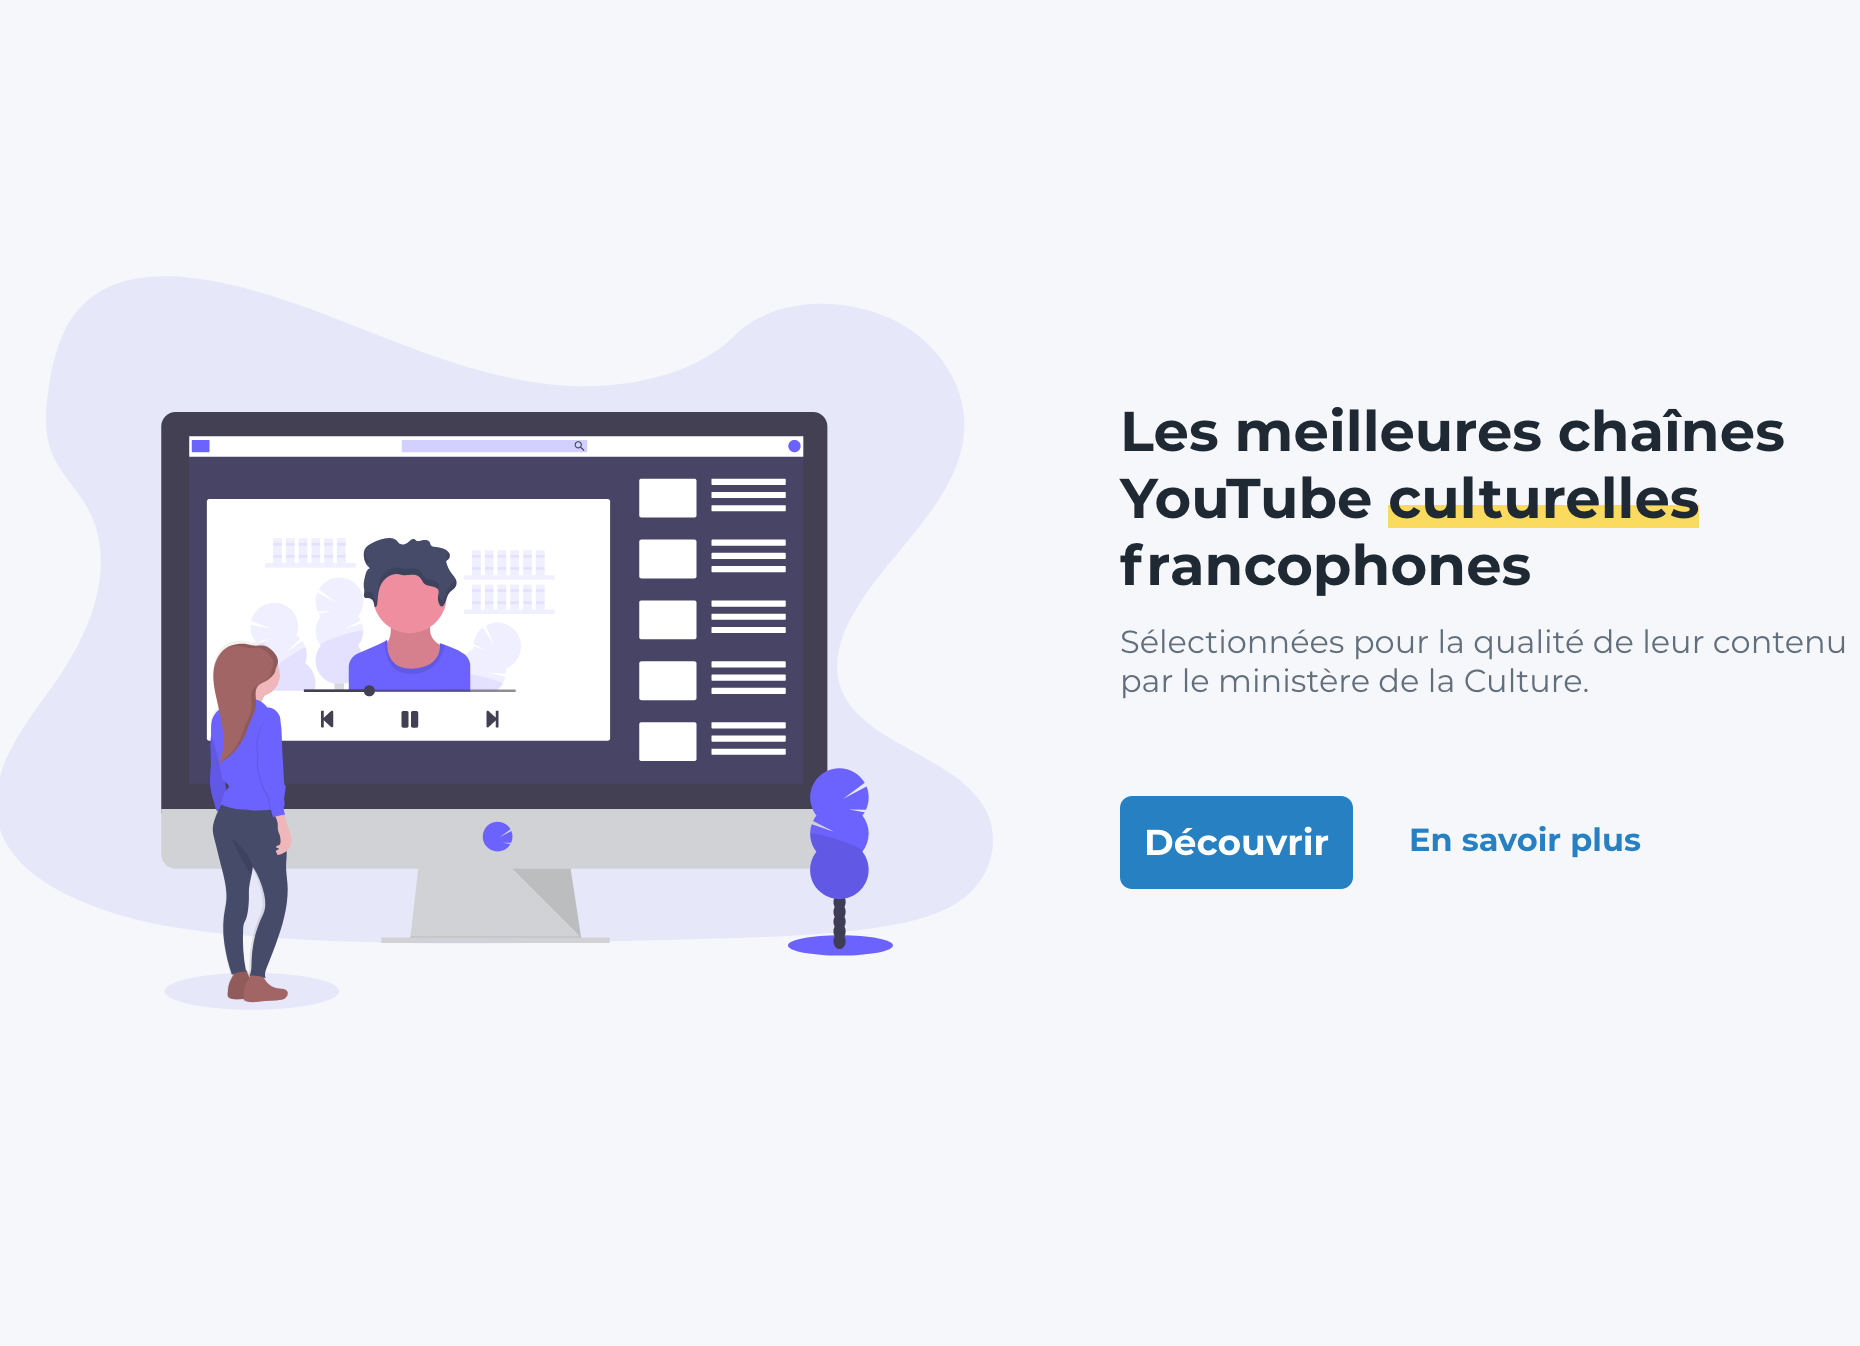
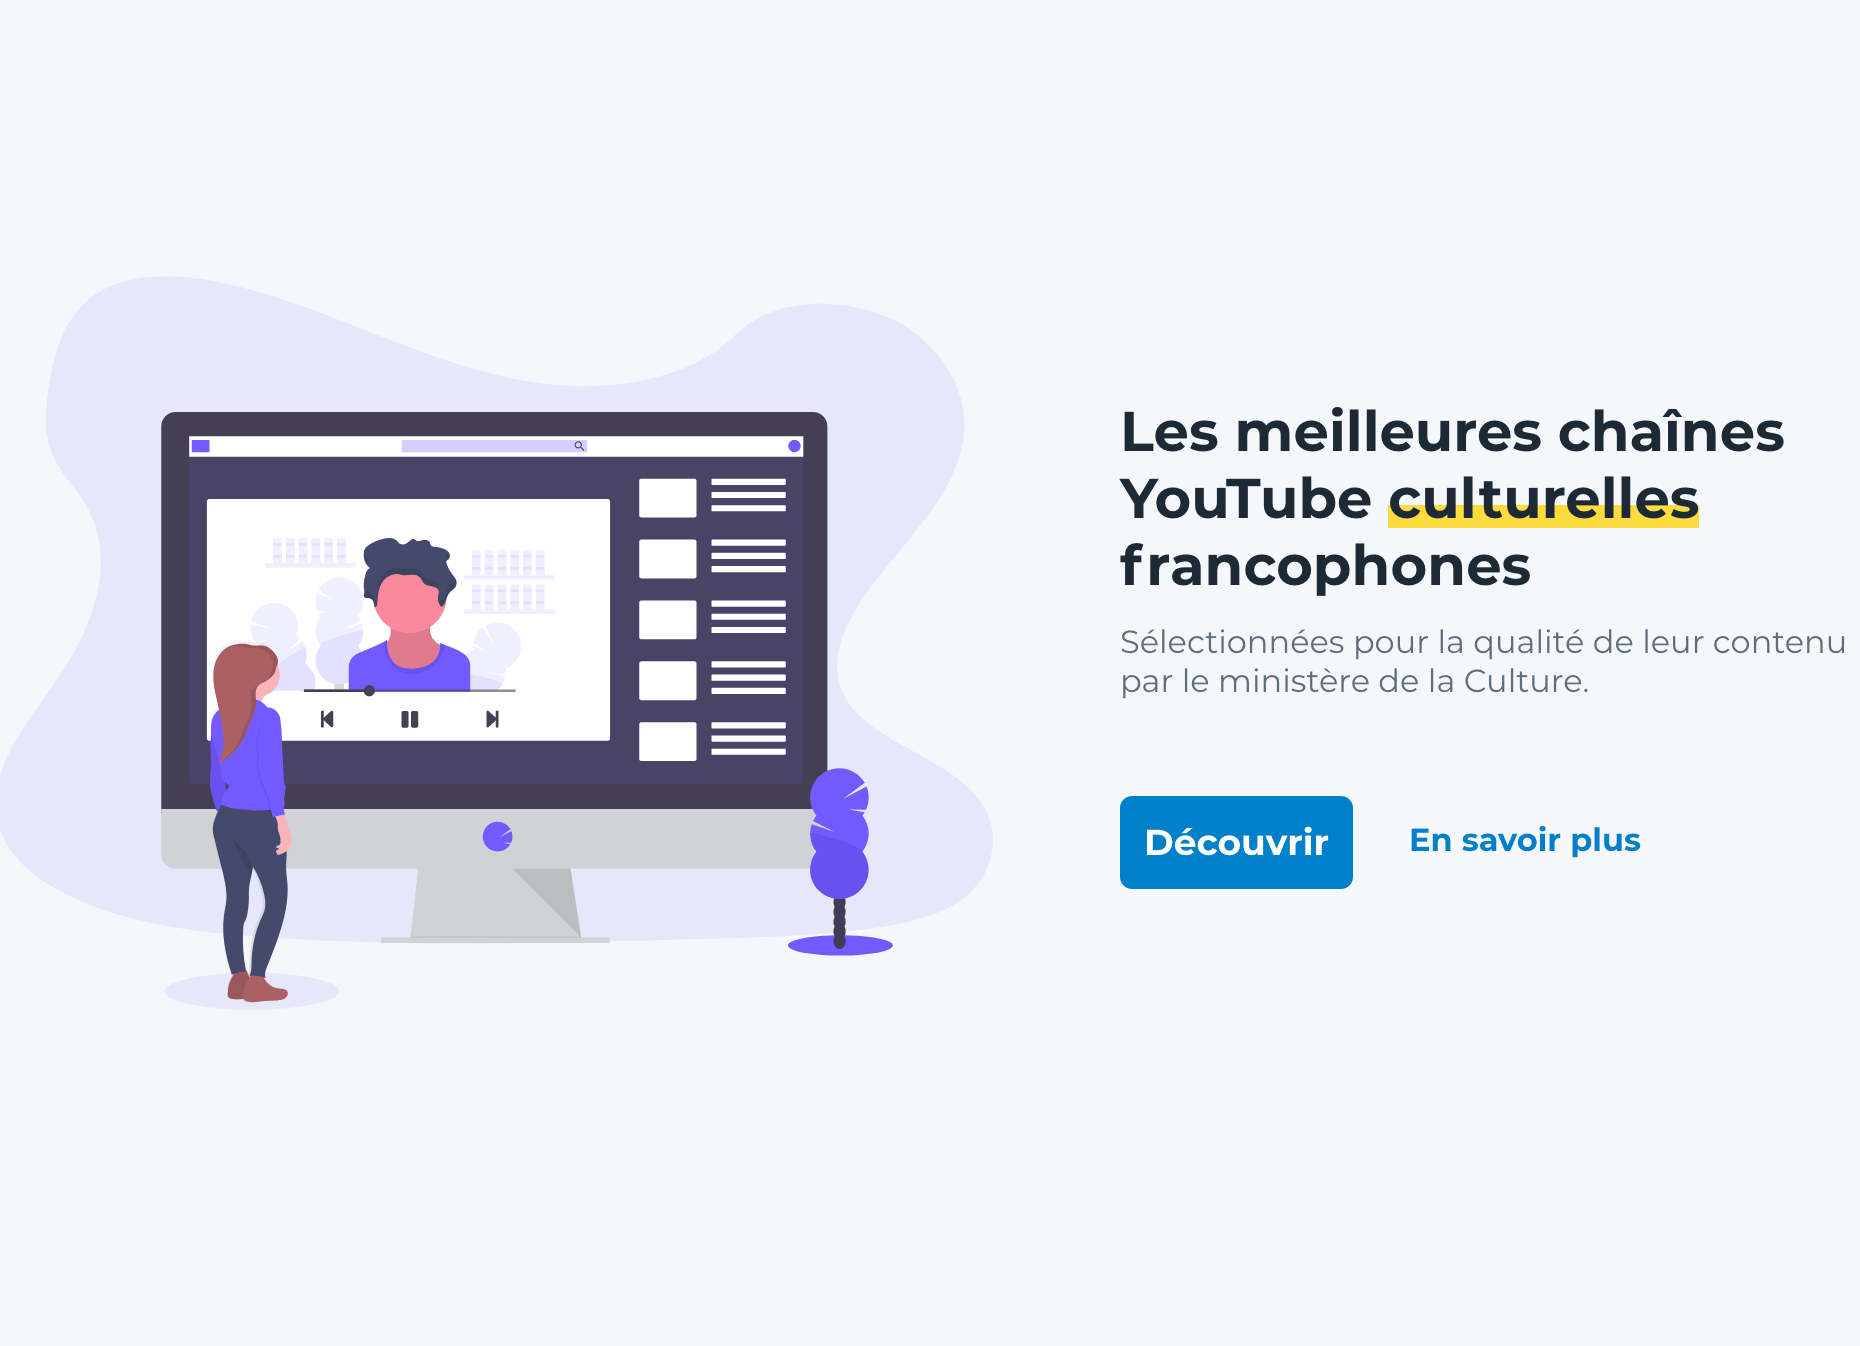
Update colors, homepage, optimize images

Changed region(s): [[0.5925, 0.5929, 0.7484, 0.6865], [0.7484, 0.3744, 0.9043, 0.4056], [0.7796, 0.6241, 0.8731, 0.6553]]

diff --git a/src/pages/index.js b/src/pages/index.js
@@ -1,5 +1,6 @@
 import React from 'react';
 import { Link, graphql, useStaticQuery } from 'gatsby';
+import Image from 'gatsby-image';
 
 import Layout from '../components/layout';
 import SEO from '../components/seo';
@@ -18,32 +19,44 @@ const Home = props => {
           }
         }
       }
+      memoji: file(absolutePath: { regex: "/memoji.png/" }) {
+        childImageSharp {
+          fluid(maxWidth: 600) {
+            ...GatsbyImageSharpFluid_tracedSVG
+          }
+        }
+      }
     }
   `);
 
   return (
     <Layout location={props.location}>
       <SEO title='Accueil' />
-      <div className='sm:mt-24 mb-32'>
-        <div className='hello-box relative bg-indigo-600 inline-block mb-4 p-2 rounded text-white'>
-          Bonjour, je suis Romain Cascino{' '}
-          <span role='img' aria-label='wave'>
-            👋🏻
-          </span>
-        </div>
-        <h2 className='text-2xl font-semibold'>
-          Ingénieur en informatique spécialisé dans le{' '}
-          <span className='font-bold text-green-600'>développement web</span>.
-          <br />
-          Actuellement basé à Nantes en{' '}
-          <span className='font-bold text-green-600'>freelance</span>.
-        </h2>
-        <div className='mt-10'>
-          <h3 className='serif italic text-xl mb-4'>
-            Vous souhaitez en savoir plus ? Retrouvez :
-          </h3>
-          <Link to='/about' className='underline-custom font-semibold text-xl'>
-            Mon histoire, mes compétences et mes intérêts.
+      <div className='hello-box relative bg-indigo-600 inline-block mb-4 mt-12 p-2 rounded-lg text-white text-lg'>
+        Bonjour, je suis Romain Cascino{' '}
+        <span role='img' aria-label='wave'>
+          👋🏻
+        </span>
+      </div>
+      <div className='flex flex-col items-center sm:flex-row sm:justify-center bg-white px-2 py-4 sm:p-4 rounded-lg shadow-custom mb-32'>
+        <Image
+          className='w-1/3 mb-6 sm:mb-0 sm:w-1/6 mx-12'
+          fluid={data.memoji.childImageSharp.fluid}
+        />
+        <div>
+          <h2 className='text-2xl font-semibold'>
+            Ingénieur en informatique spécialisé dans le{' '}
+            <span className='font-bold text-indigo-600'>développement web</span>
+            .
+          </h2>
+          <h2 className='mt-4 text-xl font-semibold'>
+            Actuellement basé à Nantes en{' '}
+            <span className='font-bold text-indigo-600'>freelance</span>.
+          </h2>
+          <Link
+            to='/about'
+            className='float-right mt-6 bg-indigo-300 hover:bg-indigo-400 text-indigo-800 font-bold py-2 px-4 rounded'>
+            En savoir plus
           </Link>
         </div>
       </div>
@@ -52,7 +65,7 @@ const Home = props => {
           <h3 className='serif italic text-2xl'>Mon dernier projet</h3>
           <Link
             to='/projects'
-            className='hidden sm:inline-block bg-indigo-300 hover:bg-indigo-400 text-indigo-800 font-bold mr-2 py-2 px-4 rounded'>
+            className='hidden sm:inline-block bg-indigo-300 hover:bg-indigo-400 text-indigo-800 font-bold py-2 px-4 rounded'>
             Voir tous mes projets
           </Link>
         </div>

diff --git a/src/components/footer.js b/src/components/footer.js
@@ -23,21 +23,21 @@ const Footer = () => {
         </Link>
         <div className='flex flex-col sm:flex-row'>
           <a
-            className='text-green-400 sm:mr-4'
+            className='text-indigo-300 sm:mr-4'
             href='mailto:contact@romaincascino.com'>
             contact@romaincascino.com
           </a>
           <a
-            className='text-green-400 sm:mr-4'
+            className='text-indigo-300 sm:mr-4'
             href='https://github.com/romaincscn'>
             Github
           </a>
           <a
-            className='text-green-400 sm:mr-4'
+            className='text-indigo-300 sm:mr-4'
             href='https://www.linkedin.com/in/romaincascino/'>
             LinkedIn
           </a>
-          <a className='text-green-400 sm:mr-4' href={cv}>
+          <a className='text-indigo-300 sm:mr-4' href={cv}>
             Mon CV
           </a>
         </div>

diff --git a/src/components/project.js b/src/components/project.js
@@ -33,7 +33,7 @@ const Project = props => {
       : `${props.startDate} – ${props.endDate}`;
 
   return (
-    <div className='flex flex-col sm:flex-row shadow-custom mb-12 bg-white rounded-lg'>
+    <div className='flex flex-col sm:flex-row shadow-custom mb-16 bg-white rounded-lg'>
       <Image
         className='w-full rounded-lg rounded-br-none rounded-bl-none sm:rounded-bl-lg sm:rounded-tr-none sm:w-1/3 md:w-2/5 mr-12 sm:mr-6'
         fluid={props.image}

diff --git a/src/styles/main.css b/src/styles/main.css
@@ -15,6 +15,10 @@ body {
   font-family: 'Libre Baskerville', serif;
 }
 
+.text-2-5xl {
+  font-size: 1.75em;
+}
+
 .hello-box::after {
   content: '';
   width: 10px;
@@ -35,7 +39,7 @@ body {
 }
 
 .active-nav {
-  background-image: linear-gradient(120deg, #69d392, #69d392);
+  background-image: linear-gradient(120deg, #5a67d8, #5a67d8);
   background-repeat: no-repeat;
   background-size: 100% 20%;
   background-position: 0 100%;

diff --git a/src/pages/about.js b/src/pages/about.js
@@ -31,7 +31,7 @@ const About = props => {
   return (
     <Layout location={props.location}>
       <SEO title='À propos' />
-      <div className='mb-12'>
+      <div className='mb-16'>
         <h2 className='serif text-4xl'>À propos</h2>
         <p className='serif italic text-lg'>
           Mon histoire, mes compétences, mes intérêts
